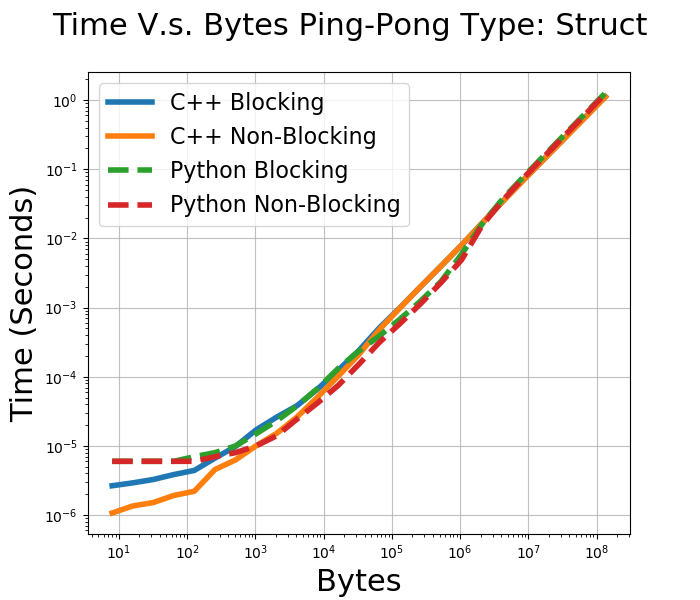
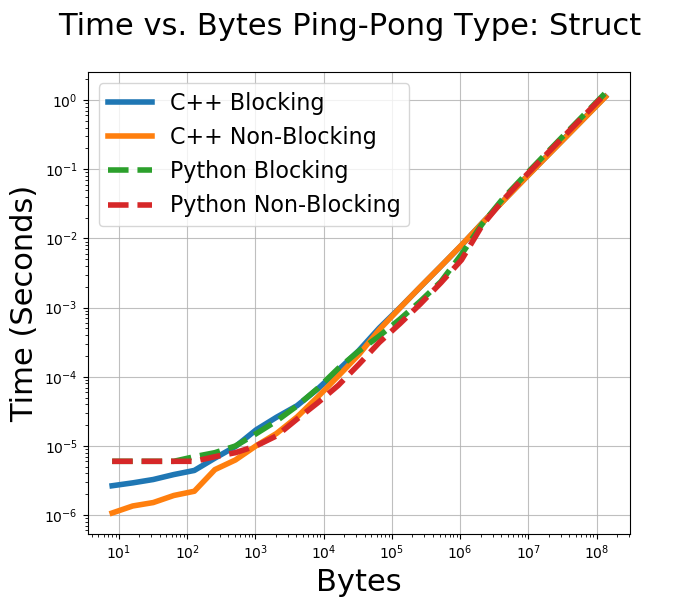
fixing title of plots.

Changed region(s): [[0.06, 0.0, 0.93, 0.09]]

diff --git a/results/remote_hpcc/vectorPingPong/dataPlotter.py b/results/remote_hpcc/vectorPingPong/dataPlotter.py
@@ -34,7 +34,7 @@ plt.yscale('log')
 plt.grid(alpha=0.8)
 plt.tick_params(axis='both', which='major', labelsize=10)
 plt.ylabel('Time (Seconds)',**font)
-plt.suptitle('Time V.s. Bytes Ping-Pong Type: MPI Vector',**font)
+plt.suptitle('Time vs. Bytes Ping-Pong Type: MPI Vector',**font)
 plt.savefig('Time_Bytes_log.png',bbox_inches='tight')
 plt.show()
 

diff --git a/results/remote_hpcc/structPingPong/dataPlotter.py b/results/remote_hpcc/structPingPong/dataPlotter.py
@@ -34,7 +34,7 @@ plt.yscale('log')
 plt.grid(alpha=0.8)
 plt.tick_params(axis='both', which='major', labelsize=10)
 plt.ylabel('Time (Seconds)',**font)
-plt.suptitle('Time V.s. Bytes Ping-Pong Type: Struct',**font)
+plt.suptitle('Time vs. Bytes Ping-Pong Type: Struct',**font)
 plt.savefig('Time_Bytes_log.png',bbox_inches='tight')
 plt.show()
 
